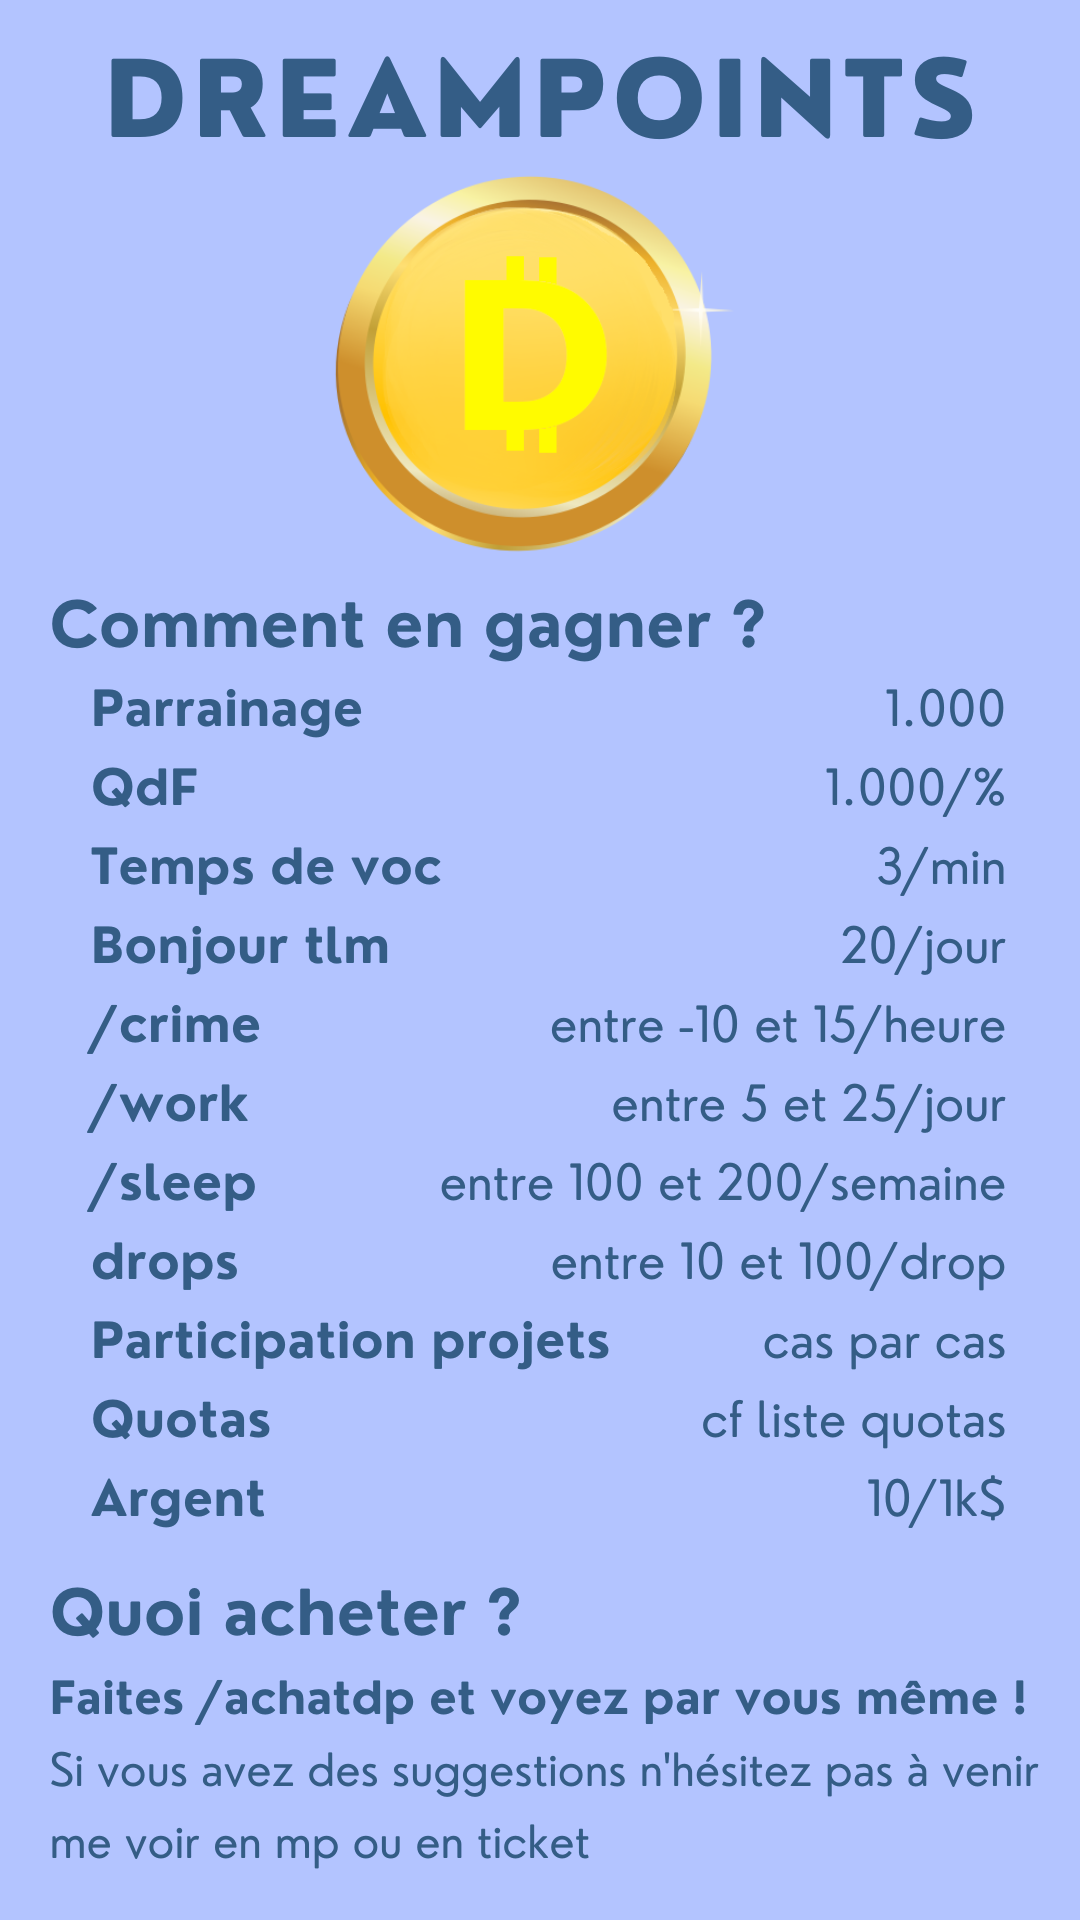
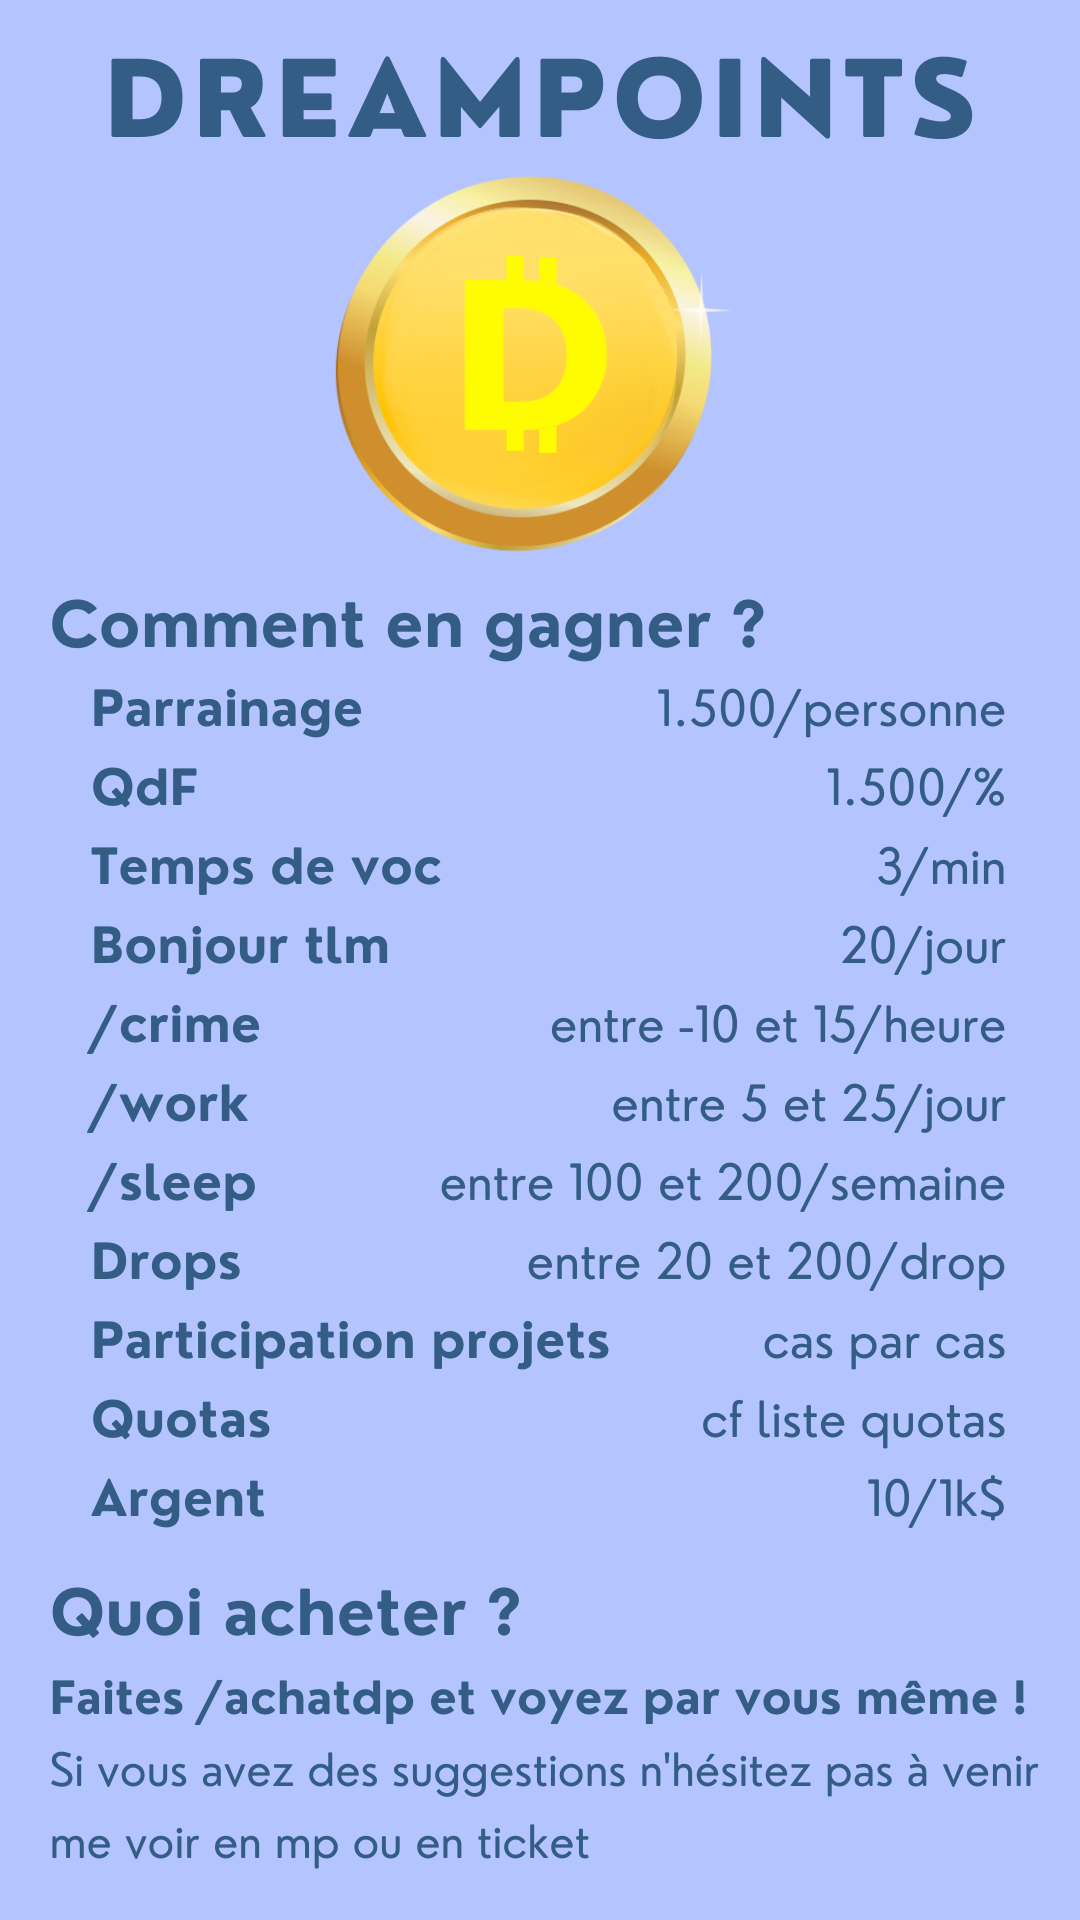
30

diff --git a/main.py b/main.py
@@ -20,6 +20,9 @@ from typing import Optional
 import requests
 from discord.app_commands import AppCommandError
 
+ID_role_fac = 791066207418712094
+ID_role_touriste = 790675785643196428
+
 debug = True
 SERVER = True
 intents = discord.Intents().all()
@@ -30,7 +33,7 @@ class PersistentViewBot(commands.Bot):
 	async def setup_hook(self) -> None:
 		views = [PersistentView(),fermerticket(),PvPView(),farmView(),mineraisView(),alchimisteView(),livresView(),machinesView(),outilsView(),
 	   servicesView(),pillagesView(),basesclaimView(),RouleR(),contijouer(),roulette(),rouleView({},0),regl(),IsAlly(),candid(0),page(),
-	   NombreView(0),ench(),vend(),pagecl(),actu(),boutonform(),boutonform2(),autoview([],[]),blackjackview()]
+	   NombreView(0),ench(),vend(),pagecl(),actu(),boutonform(),boutonform2(),autoview([],[]),blackjackview(),actueff(),actueffrc()]
 		for element in views:
 			self.add_view(element)
 
@@ -194,7 +197,9 @@ async def voc():
 	if dtn not in voc.keys():
 		voc[dtn] = {}
 	for channel in guild.voice_channels:
-		if len(channel.members)-1 > [mem.bot for mem in channel.members].count(True) and len(channel.members)-1 > [mem.voice.mute for mem in channel.members].count(True) and len(channel.members)-1 > [mem.voice.self_mute for mem in channel.members].count(True) and len(channel.members)-1 > [mem.voice.self_deaf for mem in channel.members].count(True) and len(channel.members)-1 > [mem.voice.deaf for mem in channel.members].count(True):
+		role_fac = guild.get_role(ID_role_fac)
+		touriste = guild.get_role(ID_role_touriste)
+		if len(channel.members)-1 > [mem.bot for mem in channel.members].count(True) and len(channel.members)-1 > [mem.voice.mute for mem in channel.members].count(True) and len(channel.members)-1 > [mem.voice.self_mute for mem in channel.members].count(True) and len(channel.members)-1 > [mem.voice.self_deaf for mem in channel.members].count(True) and len(channel.members)-1 > [mem.voice.deaf for mem in channel.members].count(True) and channel.user_limit > 3 and (channel.permissions_for(touriste).connect or channel.permissions_for(role_fac).connect):
 			for member in channel.members:
 				if len(channel.members)>1 and member.voice.mute == False and member.voice.self_mute == False and member.voice.deaf == False and member.voice.self_deaf == False and member.bot == False:
 					if str(member.id) in voc["total"].keys():
@@ -681,10 +686,8 @@ async def on_ready():
 		BOT_INVITE_LINK = f'https://discord.com/api/oauth2/authorize?client_id={str(bot.user.id)}&permissions=8&scope=applications.commands%20bot'
 		await bot.change_presence(activity=discord.Activity(type=discord.ActivityType.listening, name="Never gonna give you up 🎵"))
 		# functions
-		effectif.start()
 		abs.start()
 		voc.start()
-		effectif_rc.start()
 		inactivity.start()
 		#await asyncio.sleep(10)
 		#candids.start()
@@ -920,8 +923,7 @@ async def edimarket(item):
 
 # =========== Effectif ===========
 
-@tasks.loop(seconds = 3600)
-async def effectif():
+async def effectif(user):
 	guild = bot.get_guild(790367917812088864)
 	channel = await bot.fetch_channel(937006102653071452)
 	role_ids = {'Staff': [1068460789612163072,790675782569164820, 821787385636585513, 790675781789155329, 791426367362433066,1011394095383580843],
@@ -947,7 +949,26 @@ async def effectif():
 			v_field = ", ".join([x.mention for x in role.members])
 				# _embed.add_field(name=role.name, value=v_field if v_field != '' else ' - ')
 			_embed.description += f"{role.mention} : {v_field}\n\n"
+	_embed.set_footer(text = f'Dernière actualisation par {user.name}#{user.discriminator}')
 	await message.edit(embed=_embed)
+
+class actueff(discord.ui.View):
+    def __init__(self):
+        super().__init__(timeout=None)
+    @discord.ui.button(label="Actualiser", style=discord.ButtonStyle.green, custom_id='actueff',emoji='\U0001f504')
+    async def actu(self, interaction: discord.Interaction, button: discord.ui.Button):
+        await effectif(interaction.user)
+        await interaction.response.send_message("L'effectif à été actualisée",ephemeral=True) 
+
+@bot.tree.command()
+@discord.app_commands.checks.has_permissions(administrator=True)
+async def bloup(interaction: discord.Interaction):
+	channel = await bot.fetch_channel(937006102653071452)
+	message = await channel.fetch_message(937008348597997628)
+	await message.edit(view=actueff)
+	channel = await bot.fetch_channel(1075422356408909915)
+	message = await channel.fetch_message(1075436028644569129)
+	await message.edit(view=actueffrc)
 
 # =========== Recrutements ===========
 
@@ -1216,7 +1237,7 @@ class Formulaire2(discord.ui.Modal,title="Formulaire de candidature SD"):
 		with open('essaicandid.json', 'w') as f:
 			json.dump(es, f, indent=6)
 		await envoicandid(interaction.guild,interaction.user,data[0],data[1],data[2],data[3],data[4],self.av,self.sd,self.tryh,self.obj,self.dis)
-		await interaction.followup.edit(content='Vous avez bien postulé !')
+		await interaction.followup.edit_message(interaction.message.id,content='Vous avez bien postulé !')
 
 @bot.tree.command()
 async def sendrecru(interaction: discord.Interaction):
@@ -1241,12 +1262,21 @@ async def listerecru(interaction: discord.Interaction):
 @discord.app_commands.checks.has_permissions(manage_channels=True)
 async def resetlisterecru(interaction: discord.Interaction):
 	'''Reset la liste des recruteurs. Commande réservée aux membres du staff (hors Recruteurs)..'''
-	with open('Recrutements.json', 'r') as f:
-		RC = json.load(f)
-	RC['Recruteur'] = {"Total":{},"Candids": {},"Oral": {},"Phases": {},"Ecoute":{}}
-	with open('Recrutements.json', 'w') as f:
-		json.dump(RC, f, indent=6)
-	await interaction.response.send_message("Tout s'est bien passé")
+	await interaction.response.send_message(f"Confirmez-vous le reset de la liste recruteurs ?",ephemeral=True,view=confres())
+
+class confres(discord.ui.View):
+	def __init__(self) -> None:
+		super().__init__(timeout=None)
+	@discord.ui.button(label="Confirmer", style=discord.ButtonStyle.green, custom_id='confre',emoji="\u2705")
+	async def reseeeeeeeeeeeeeee(self, interaction: discord.Interaction, button: discord.ui.Button):
+		if 790675781789155329 not in [x.id for x in interaction.user.roles]:
+			await interaction.response.send_message(f":warning: Vous devez être <@&790675781789155329> pour faire ça !")
+		with open('Recrutements.json', 'r') as f:
+			RC = json.load(f)
+		RC['Recruteur'] = {"Total":{},"Candids": {},"Oral": {},"Phases": {},"Ecoute":{}}
+		with open('Recrutements.json', 'w') as f:
+			json.dump(RC, f, indent=6)
+		await interaction.response.send_message(f"Vous avez bien reset la liste des recruteurs")
 
 @bot.tree.command()
 async def refuse(interaction: discord.Interaction, member: discord.Member, *, raison:str):
@@ -1279,7 +1309,7 @@ async def accept(interaction: discord.Interaction, member: discord.Member):
 
 @bot.tree.command()
 @discord.app_commands.checks.has_permissions(move_members=True)
-async def oralyes(interaction: discord.Interaction, member: discord.Member):
+async def oralyes(interaction: discord.Interaction, member: discord.Member,parrain:discord.Member=None):
 	'''Accepter un oral. Commande réservée aux recruteurs.'''
 	await interaction.response.defer()
 	with open('Recrutements.json', 'r') as f:
@@ -1297,6 +1327,12 @@ async def oralyes(interaction: discord.Interaction, member: discord.Member):
 	if str(member.id) not in RC['CA']:
 		await interaction.followup.send(embed=create_small_embed(":warning: Cet utilisateur n'est pas en attente d'entretien !"))
 		return
+	if parrain != None:
+		with open('points.json', 'r') as f:
+			pt = json.load(f)
+		pt[str(parrain.id)] += 1500
+		with open('points.json', 'w') as f:
+			json.dump(pt, f, indent=6)
 	RC['CA'].pop(str(member.id))
 	RC["ET"][str(member.id)] = datetime.now().strftime('%d/%m/%Y')
 	try:
@@ -1330,7 +1366,7 @@ async def oralyes(interaction: discord.Interaction, member: discord.Member):
 	with open('Recrutements.json', 'w') as f:
 		json.dump(RC, f, indent=6)
 	log = bot.get_channel(831615469134938112)
-	files_ = [discord.File(fp) for fp in ['DreamPoints.png','liste_quotas.png','pointphases.png']]
+	files_ = [discord.File(fp) for fp in ['DreamPoints.png','liste_quotas.png','pointphases.png','liste_rankup.png']]
 	await member.send(embed=_embed,files=files_)
 	await interaction.followup.send(embed=create_small_embed('Le message a bien été envoyé à' + member.mention))
 	await log.send(embed=create_small_embed(interaction.user.mention + ' à éxécuté la commande oralyes pour ' + member.mention))
@@ -1582,9 +1618,7 @@ async def kickphases(interaction: discord.Interaction, member: discord.User, *, 
 		await log.send(embed=create_small_embed(interaction.user.mention + ' à éxécuté la commande kickphases pour ' + member))
 		await ban.send(embed=create_small_embed(member + ' est banni.e pendant deux semaines car iel à été kick des phases ',discord.Color.red()))
 	
-
-@tasks.loop(seconds = 3600)
-async def effectif_rc():
+async def effectif_rc(user):
 	channel = await bot.fetch_channel(1075422356408909915)
 	with open('Recrutements.json', 'r') as f:
 		RC = json.load(f)
@@ -1593,7 +1627,16 @@ async def effectif_rc():
 	for type in a:
 		embed.add_field(name=f'{type} ({len(list(RC[type].keys()))})',value='\n'.join([f'<@{t[0]}> : {t[1]}' for t in RC[type].items()]),inline=False)
 	message = await channel.fetch_message(1075436028644569129)
+	embed.set_footer(text = f'Dernière actualisation par {user.name}#{user.discriminator}')
 	await message.edit(embed=embed)
+
+class actueffrc(discord.ui.View):
+    def __init__(self):
+        super().__init__(timeout=None)
+    @discord.ui.button(label="Actualiser", style=discord.ButtonStyle.green, custom_id='actueffrc',emoji='\U0001f504')
+    async def actu(self, interaction: discord.Interaction, button: discord.ui.Button):
+        await effectif_rc(interaction.user)
+        await interaction.response.send_message("L'effectif à été actualisée",ephemeral=True) 
 
 @bot.tree.command()
 @discord.app_commands.checks.has_permissions(manage_channels=True)
@@ -2099,7 +2142,12 @@ async def chiffrecommande(member,channel):
 		return m.author == member and m.channel == channel
 	msg = await bot.wait_for('message', timeout=None,check=check)
 	try:
-		return int(msg.content)
+		a = int(msg.content)
+		if a>0:
+			return a
+		else:
+			await channel.send(':warning: Veuillez indiquer un chiffre positif')
+			return await chiffrecommande(member,channel)
 	except:
 		await channel.send(':warning: Veuillez indiquer un chiffre')
 		return await chiffrecommande(member,channel)
@@ -4197,11 +4245,10 @@ class blaccept(discord.ui.View):
 class actu(discord.ui.View):
     def __init__(self):
         super().__init__(timeout=None)
-    @discord.ui.button(label="Actualiser", style=discord.ButtonStyle.green, custom_id='actu',emoji='<a:TR_Online:1005062612138066010>')
+    @discord.ui.button(label="Actualiser", style=discord.ButtonStyle.green, custom_id='actu',emoji='\U0001f504')
     async def actu(self, interaction: discord.Interaction, button: discord.ui.Button):
         await interaction.message.edit(embed = await embed_blacklist(interaction.guild,interaction.user))
         await interaction.response.send_message('La blacklist à été actualisée',ephemeral=True) 
-
 
 @bot.tree.command()
 @discord.app_commands.checks.has_permissions(administrator = True)
